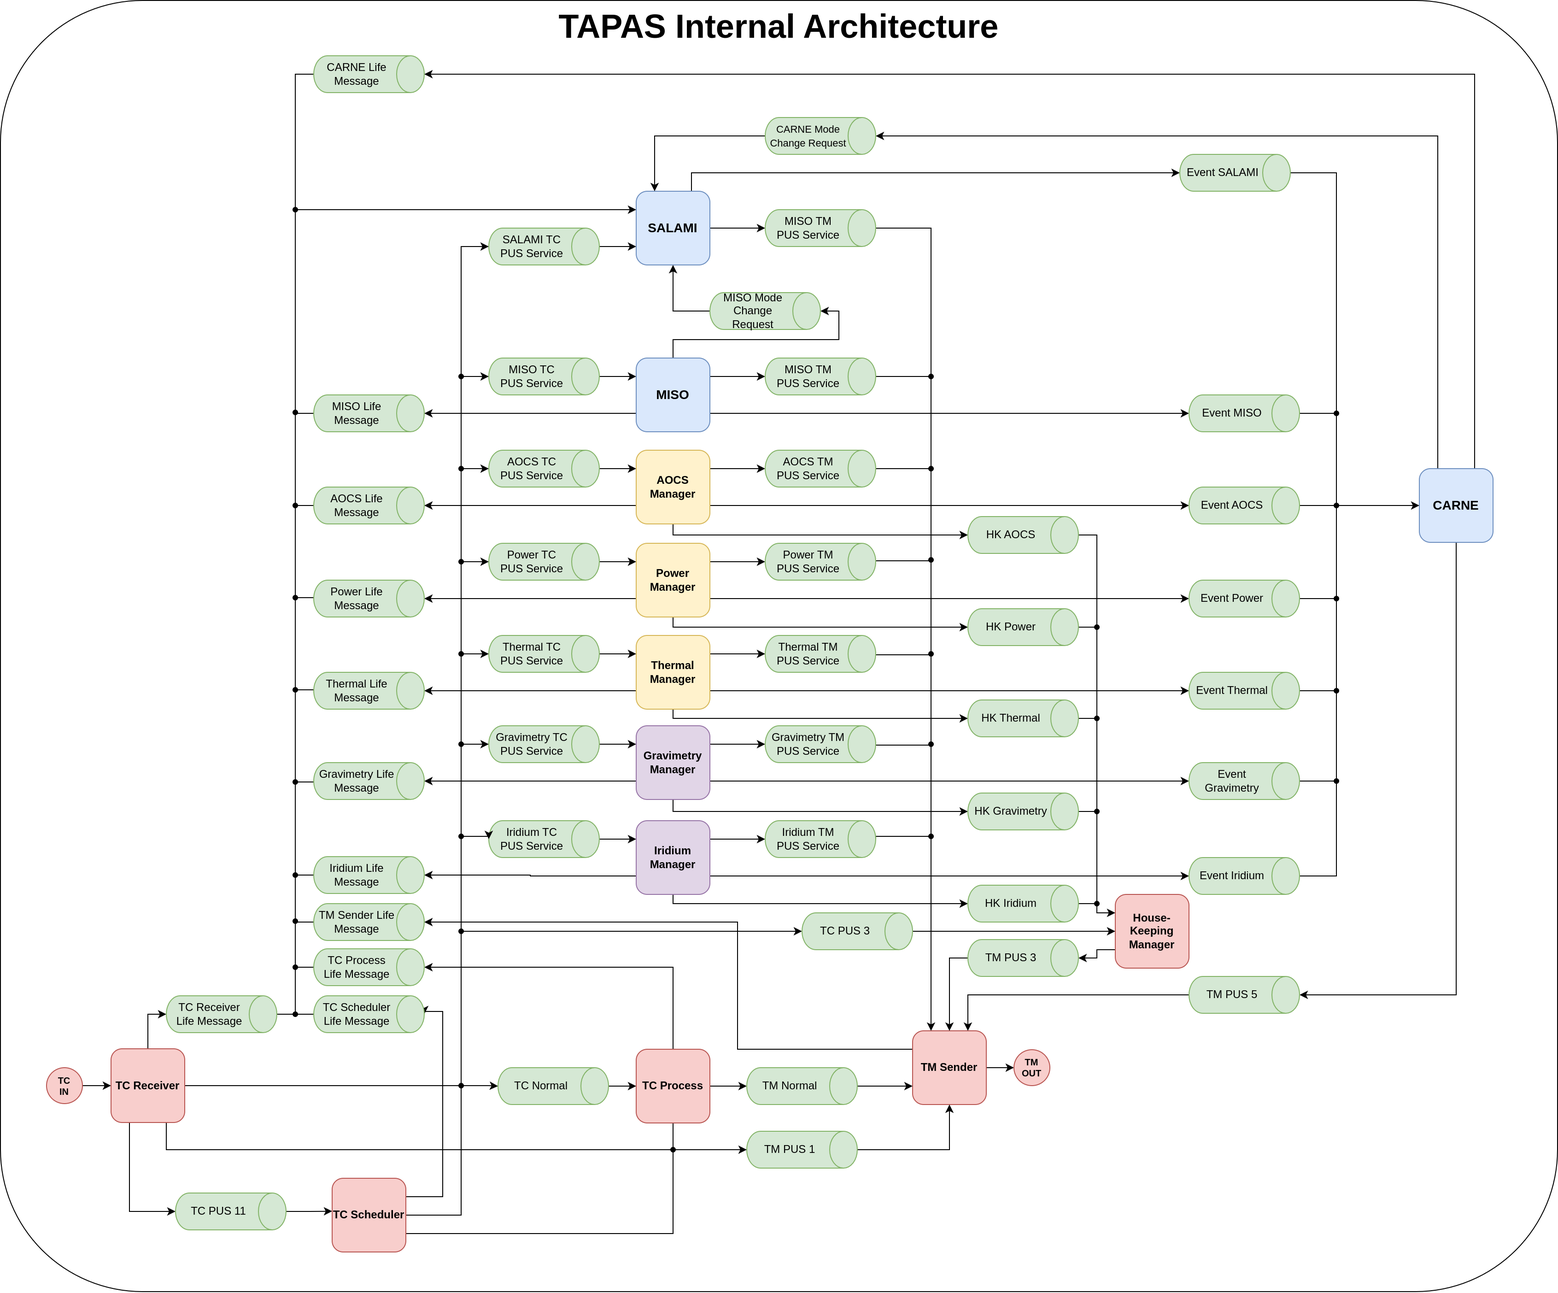
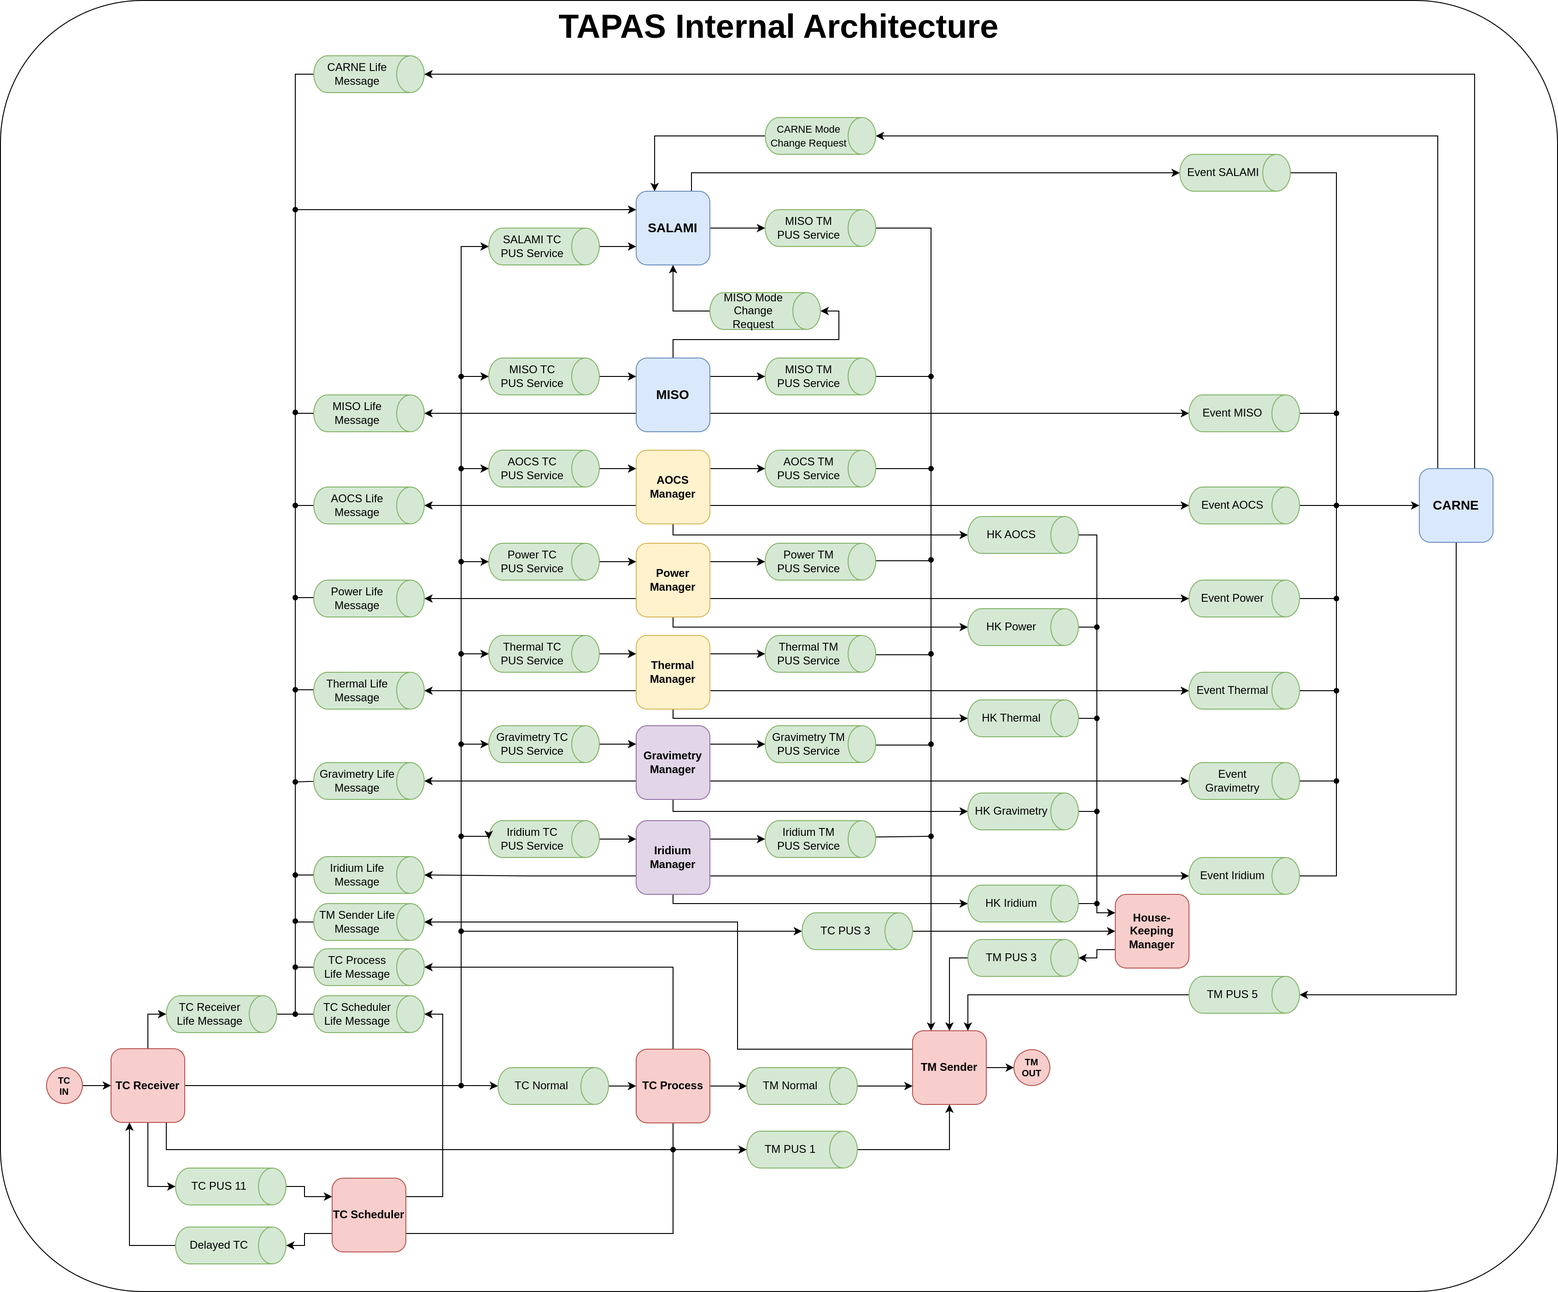
Internal Software Specifications is now finished

diff --git a/doc/technical-specifications/TM_TC_Flow.md b/doc/technical-specifications/TM_TC_Flow.md
@@ -4,11 +4,157 @@
 
 ## Introduction
 
+What we call Telemetry and Telecommand Flow is a set of tasks enabling the satellite to communicate with the ground. First, we define telecommands and telemetry:
+- TeleCommands (TC) are messages sent from the ground to the satellite. The purpose of these messages is to control the satellite or acquire data.
+- TeleMetry (TM) are messages sent from the satellite to the ground. These messages contain information about the satellite and its mission. Some are responses to telecomands.
+
+These telecommands and telemetry devices comply with the ECSS Protocol Utilization Standard (PUS). The main contributions of this standard (and of the space packet protocol from which it derives) are :
+- TMs and TCs specify the application ID (APID) to which the message is addressed.
+- TMs and TCs have an identification number which enables them to be traced.
+- TMs and TCs are grouped into services and sub-services which allow actions of the same type to be grouped together.
+- TMs are time-stamped.
+
+For more information on the PUS, please refer to the ECSS document ECSS-E-ST-70-41C (available free of charge on the Internet).
+
+The satellite must therefore be able to :
+1. Receive telecommands.
+2. Interpret and execute these telecommands.
+3. Build and transmit telemetry.
+4. Receive telecommands to be executed at a specific time.
+5. Store telemetry while waiting to be in vision of the ground station.
+
 ## Specifications
+
+| Reference      | Name                   | Rational       | Description                                                                          |
+|----------------|------------------------|----------------|--------------------------------------------------------------------------------------|
+| T-TAPAS-400-00 | ACK management service | T-TAPAS-025-00 | The satellite must be able to provide an acknowledgement management service (PUS 1). |
+
+| Reference      | Name                            | Rational       | Description                                                                       |
+|----------------|---------------------------------|----------------|-----------------------------------------------------------------------------------|
+| T-TAPAS-401-00 | Housekeeping management service | T-TAPAS-025-00 | The satellite must be able to provide an housekeeping management service (PUS 3). |
+
+| Reference      | Name                      | Rational       | Description                                                                 |
+|----------------|---------------------------|----------------|-----------------------------------------------------------------------------|
+| T-TAPAS-402-00 | Events management service | T-TAPAS-025-00 | The satellite must be able to provide an events management service (PUS 5). |
+
+| Reference      | Name                      | Rational       | Description                                                                 |
+|----------------|---------------------------|----------------|-----------------------------------------------------------------------------|
+| T-TAPAS-403-00 | Memory management service | T-TAPAS-025-00 | The satellite must be able to provide an memory management service (PUS 6). |
+
+| Reference      | Name                    | Rational       | Description                                                               |
+|----------------|-------------------------|----------------|---------------------------------------------------------------------------|
+| T-TAPAS-404-00 | Time management service | T-TAPAS-025-00 | The satellite must be able to provide an time management service (PUS 9). |
+
+| Reference      | Name                        | Rational       | Description                                                                    |
+|----------------|-----------------------------|----------------|--------------------------------------------------------------------------------|
+| T-TAPAS-405-00 | Schedule management service | T-TAPAS-025-00 | The satellite must be able to provide an schedule management service (PUS 11). |
+
+| Reference      | Name                                  | Rational       | Description                                                                              |
+|----------------|---------------------------------------|----------------|------------------------------------------------------------------------------------------|
+| T-TAPAS-406-00 | On-board retrieval management service | T-TAPAS-025-00 | The satellite must be able to provide an on-board retrieval management service (PUS 15). |
+
+| Reference      | Name                    | Rational       | Description                                                                |
+|----------------|-------------------------|----------------|----------------------------------------------------------------------------|
+| T-TAPAS-407-00 | Test management service | T-TAPAS-025-00 | The satellite must be able to provide an test management service (PUS 17). |
+
+| Reference      | Name                      | Rational       | Description                                                      |
+|----------------|---------------------------|----------------|------------------------------------------------------------------|
+| T-TAPAS-408-00 | SALAMI management service | T-TAPAS-025-00 | The satellite must be able to provide SALAMI management service. |
+
+| Reference      | Name                    | Rational       | Description                                                    |
+|----------------|-------------------------|----------------|----------------------------------------------------------------|
+| T-TAPAS-409-00 | MISO management service | T-TAPAS-025-00 | The satellite must be able to provide MISO management service. |
+
+| Reference      | Name                    | Rational       | Description                                                    |
+|----------------|-------------------------|----------------|----------------------------------------------------------------|
+| T-TAPAS-410-00 | AOCS management service | T-TAPAS-025-00 | The satellite must be able to provide AOCS management service. |
+
+| Reference      | Name                     | Rational       | Description                                                     |
+|----------------|--------------------------|----------------|-----------------------------------------------------------------|
+| T-TAPAS-411-00 | Power management service | T-TAPAS-025-00 | The satellite must be able to provide Power management service. |
+
+| Reference      | Name                       | Rational       | Description                                                       |
+|----------------|----------------------------|----------------|-------------------------------------------------------------------|
+| T-TAPAS-412-00 | Thermal management service | T-TAPAS-025-00 | The satellite must be able to provide Thermal management service. |
+
+| Reference      | Name                          | Rational       | Description                                                          |
+|----------------|-------------------------------|----------------|----------------------------------------------------------------------|
+| T-TAPAS-413-00 | Gravimetry management service | T-TAPAS-025-00 | The satellite must be able to provide Gravimetry management service. |
+
+| Reference      | Name                       | Rational       | Description                                                       |
+|----------------|----------------------------|----------------|-------------------------------------------------------------------|
+| T-TAPAS-414-00 | Iridium management service | T-TAPAS-025-00 | The satellite must be able to provide Iridium management service. |
+
+| Reference      | Name             | Rational       | Description                                                                                                  |
+|----------------|------------------|----------------|--------------------------------------------------------------------------------------------------------------|
+| T-TAPAS-415-00 | TC Aknoledgement | T-TAPAS-025-00 | All TCs must be aknowledged for proper reception and execution (i.e. TM(1,1), TM(1,2), TM(1,7) and TM(1,8)). |
+
+| Reference      | Name        | Rational       | Description                                                                                                                     |
+|----------------|-------------|----------------|---------------------------------------------------------------------------------------------------------------------------------|
+| T-TAPAS-420-00 | TC Receiver | T-TAPAS-026-00 | The TC receiver must check the validity of the TC, then acknowledge receipt and route the TC to the task which will execute it. |
+
+| Reference      | Name      | Rational       | Description                                                                                                                                                                                |
+|----------------|-----------|----------------|--------------------------------------------------------------------------------------------------------------------------------------------------------------------------------------------|
+| T-TAPAS-421-00 | TM Sender | T-TAPAS-026-00 | The TM Sender is responsible for collecting all the TMs, putting them into frames, storing them in packet stores and then lowering them to the ground when the ground station is in sight. |
+
+| Reference      | Name         | Rational       | Description                                                                                                                                                                   |
+|----------------|--------------|----------------|-------------------------------------------------------------------------------------------------------------------------------------------------------------------------------|
+| T-TAPAS-420-00 | TC Scheduler | T-TAPAS-026-00 | The TC Scheduler is responsible for retrieving the TCs that need to be executed at a specific time, storing them in a scheduler and then releasing them at the required time. |
 
 ## Description
 
+In order to successfully receive and execute remote commands and then transmit telemetry, it is necessary to have several tasks that deal with these different activities. For this reason, we have created the following tasks in order to make the processing more fluid. So we have :
+- TC Receiver, which is responsible for receiving the telecommands, checking their validity, producing the acknowledgement or non-acknowledgement of correct reception (i.e. TM(1,1) or TM(1,2)), then routing the telecommands to the activity responsible for processing them according to the APID, its service and sub-service.
+- TM Sender, which is responsible for retrieving all the telemetry from the satellite, putting it in the form of a "transfer frame" (fixed size of 1115 bytes) then encoded in Reed-Solomon format before being stored in non-volatile memory in the form of a packet store (PS). It is also responsible for retrieving these packet stores and returning them to the ground when the ground station is in visibility.
+- TC Scheduler, which is responsible for storing the programmed TCs and then resending them at the requested time.
+- Most tasks are able to receive a TC, execute it and send TMs.
+
+The operation of the TM/TC flow can therefore be summarised as follows:
+
 <img src="../images/TMTC_Flow_Graph.png" width=100% />
+
+### TC Receiver
+
+As explained above, this task must be carried out in the following order:
+1. Check for the presence of TCs, and recover them if there are any.
+2. Check the validity of the TC.
+3. If the TC is valid, send an acknowledgement, otherwise send a non-acknowledgement.
+4. Send the TC to the task responsible for processing it. To do this, the task will use a routing table based on a routing key. The routing key is made up of the APID, the service and the sub-service.
+
+This task must be executed periodically with a relatively high frequency and a high priority to ensure that no TCs are lost, even if the DMA uses a buffer to store a few TCs in advance.
+
+### TM Sender
+
+As explained above, this task must be carried out in the following order:
+- If the satellite is not in transmission mode :
+    1. Retrieve all TMs from its buffers;
+    2. Put them in the form of encoded frames using the Reed-Solomon algorithm.
+    3. Store them in NVM blind packets.
+- If the satellite is in transmit mode :
+    1. Retrieve all TMs from its buffers;
+    2. Encode them into frames using the Reed-Solomon algorithm.
+    3. Send them down to the ground.
+    4. Empty the NVM store packets towards the ground if the satellite has been instructed to do so.
+
+### TC Scheduler
+
+As explained above, this task must be carried out in the following order :
+1. Retrieve the TCs from service 11. Unpack them, retrieve the TC inside and the time at which it was executed.
+2. Store the TCs in the NVME in the form of a linked list, which we will call schedule according to their execution time. We will acquire the execution of the TC for service 11 at this time.
+3. Scan the TCs in the schedule in NVM. Recover the TCs whose execution time is greater than or equal to the current time.
+4. Send the available TCs to the TM sender.
+
+### TM/TC Process & Specific Task
+
+Some tasks can perform TCs, in which case the task must :
+1. Check the presence of TCs at the start of the period.
+2. Process the TC.
+3. Sends an execution acknowledgement or non-acknowledgement TM after executing the TC.
+4. Sends a TM if required by the remote control.
+
+Otherwise tasks can send telemetry without any TC being received, the principle remains the same these TM are sent to the TM Sender.
+
+The TM/TC process task is there to execute all the TCs that do not have a specific task to execute them (like services 6, 9 and 17).
 
 ## List of PUS Services & Subservices Used
 
@@ -19,6 +165,7 @@ Here is a table showing all the PUS services used on TAPAS :
 |    1    | Request Verification           |
 |    3    | Housekeeping                   |
 |    5    | Event Reporting                |
+|    6    | Memory management              |
 |    9    | Time Management                |
 |   11    | Time Based Scheduling          |
 |   15    | On-Board Storage and Retrieval |
@@ -35,28 +182,32 @@ Note: services above 128 are mission-specific services according to the PUS stan
 
 Here is a table showing all telemetries and telecommands used on TAPAS :
 
-| Service | Subservice | TM/TC | Purpose                                            |
-|:-------:|:----------:|:-----:|----------------------------------------------------|
-|    1    |     1      |  TM   | Successful Acceptance                              |
-|    1    |     2      |  TM   | Failed Acceptance                                  |
-|    1    |     7      |  TM   | Successful Execution                               |
-|    1    |     8      |  TM   | Failed Execution                                   |
-|    3    |     5      |  TC   | Enable Housekeeping                                |
-|    3    |     6      |  TC   | Disable Housekeeping                               |
-|    3    |     25     |  TM   | Housekeeping Parameter Report                      |
-|    5    |     1      |  TM   | Informative Event Report                           |
-|    5    |     2      |  TM   | Low Severity Event Report                          |
-|    5    |     3      |  TM   | Medium Severity Event Report                       |
-|    5    |     4      |  TM   | High Severity Event Report                         |
-|    9    |     2      |  TM   | CUC time report                                    |
-|    9    |     xx     |  TC   | Set On-Board Time                                  |
-|   11    |     1      |  TC   | Enable Time-Based Schedule                         |
-|   11    |     2      |  TC   | Enable Time-Based Schedule                         |
-|   11    |     3      |  TC   | Reset Time-Based Schedule                          |
-|   11    |     4      |  TC   | Add Activity to the Time-Based Schedule            |
-|   15    |     9      |  TC   | Start the by-time-range retrieval of packet stores |
-|   17    |     1      |  TC   | Connection Test (Ping)                             |
-|   17    |     2      |  TM   | Connection Test Answer (Pong)                      |
+| Service | Subservice | TM/TC | Purpose                                                      |
+|:-------:|:----------:|:-----:|--------------------------------------------------------------|
+|    1    |     1      |  TM   | Successful Acceptance                                        |
+|    1    |     2      |  TM   | Failed Acceptance                                            |
+|    1    |     7      |  TM   | Successful Execution                                         |
+|    1    |     8      |  TM   | Failed Execution                                             |
+|    3    |     5      |  TC   | Enable Housekeeping                                          |
+|    3    |     6      |  TC   | Disable Housekeeping                                         |
+|    3    |     25     |  TM   | Housekeeping Parameter Report                                |
+|    5    |     1      |  TM   | Informative Event Report                                     |
+|    5    |     2      |  TM   | Low Severity Event Report                                    |
+|    5    |     3      |  TM   | Medium Severity Event Report                                 |
+|    5    |     4      |  TM   | High Severity Event Report                                   |
+|    6    |     2      |  TC   | Load Raw Memory Data Areas                                   |
+|    6    |     5      |  TC   | Dump Raw Memory Data                                         |
+|    6    |     6      |  TM   | Dumped Raw Memory Data Report                                |
+|    9    |     2      |  TM   | CUC time report                                              |
+|    9    |     xx     |  TC   | Set On-Board Time                                            |
+|   11    |     1      |  TC   | Enable Time-Based Schedule                                   |
+|   11    |     2      |  TC   | Enable Time-Based Schedule                                   |
+|   11    |     3      |  TC   | Reset Time-Based Schedule                                    |
+|   11    |     4      |  TC   | Add Activity to the Time-Based Schedule                      |
+|   15    |     9      |  TC   | Start the by-time-range retrieval of packet stores           |
+|   15    |     11     |  TC   | Delete the content of packet stores up to the specified time |
+|   17    |     1      |  TC   | Connection Test (Ping)                                       |
+|   17    |     2      |  TM   | Connection Test Answer (Pong)                                |
 
 ## Failure Management
 

diff --git a/doc/technical-specifications/Technical_Specifications.md b/doc/technical-specifications/Technical_Specifications.md
@@ -7,14 +7,19 @@ TOLOSAT Autonomous Payload & Avionic Software (TAPAS) is the flight software for
 The purpose of this manual is to explain in detail how TAPAS works, its various functions and specifications. The section [TAPAS Internal Architecture](Internal_Architecture.md) describes the internal architecture of TAPAS and explains in general terms how each of the activities is coordinated and what their purpose is. All the other sections describe the functionality of each activity and its specification.
 ## Summary
 
+Here are the components of TAPAS linked to its internal functioning :
 - [TAPAS Internal Architecture](Internal_Architecture.md)
 - [Satellite Life Analysis & Mode Integration](SALAMI.md)
 - [Monitoring & Internal Software Monitoring](MISO.md)
 - [Common Automated Recording of New Events](CARNE.md)
 - [Telecommand & Telemetry Flow](TM_TC_Flow.md)
 - [HouseKeeping Management](HouseKeeping_Mgmt.md)
+
+Here are the TAPAS components linked to avionics :
 - [AOCS Management](AOCS_Mgmt.md)
 - [Power Management](Power_Mgmt.md)
 - [Thermal Management](Thermal_Mgmt.md)
+
+Here are the TAPAS components linked to payloads :
 - [Gravimetry Payload Management](Gravimetry_Mgmt.md)
 - [Iridium Payload Management](Iridium_Mgmt.md)

diff --git a/doc/technical-specifications/Internal_Architecture.md b/doc/technical-specifications/Internal_Architecture.md
@@ -188,7 +188,7 @@ TeleCommand (TC) and TeleMetry (TM) Flow is based on a large number of tasks:
 - Housekeeping Manager, who is responsible for receiving the observables from the satellite and generating the housekeeping TMs.
 - And finally, all the other tasks that can receive their own TCs and transmit their own TMs.
 
-Between each of these tasks there are buffers to store the CTs and TMs while waiting for the next task to retrieve them.
+Between each of these tasks there are buffers to store the TCs and TMs while waiting for the next task to retrieve them.
 
 We can summarise the operation of the internal software with the following graph, which shows all the tasks and the buffers that link them.
 

diff --git a/README.md b/README.md
@@ -76,6 +76,7 @@ To implement this project, the following tools were used: Make to automate the b
 | FDIR    | Failure Detection Identification and Recovery      |
 | HAL     | Hardware Abstraction Layer                         |
 | MISO    | Monitoring & Internal Software Observation         |
+| NVM     | Non Volatile Memory                                |
 | OS      | Operating System                                   |
 | PUS     | Packet Utilization Standard (cf. ECSS-E-ST-70-41C) |
 | PS      | Packet Store                                       |
